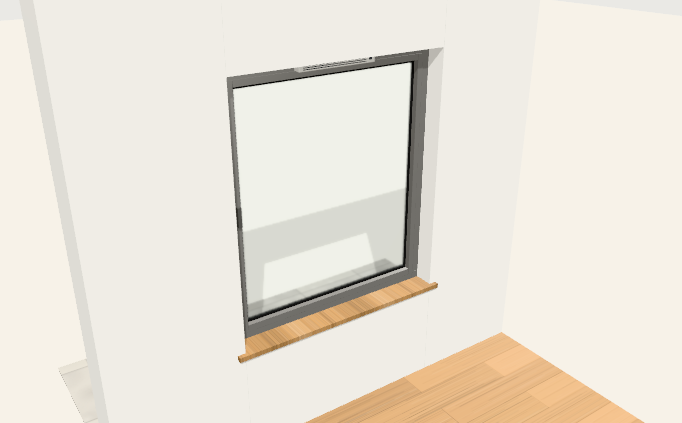
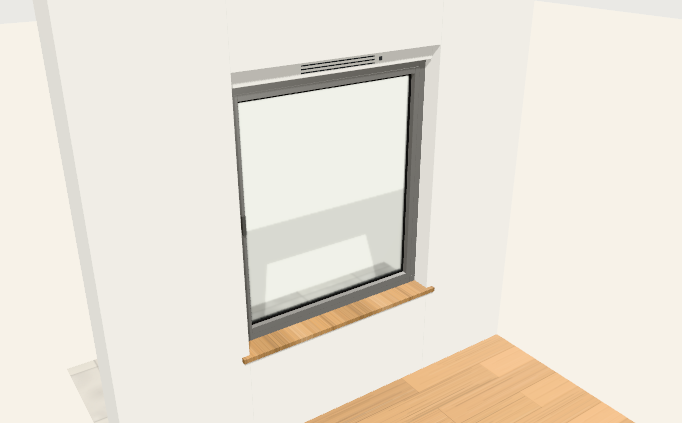
Bouw: raamventilator in een opzetkast, samenvatting zonder ruis (ronde 11b)
De raamventilator zat in een kast van 6 cm tegen het kader en viel in de
3D nauwelijks op. Nu een opzetkast bovenop het kader, binnen, over de
hele breedte (10 cm, of zo hoog als de zonweringskast), met de sleuven
van de ventilator in het midden en buiten een rooster met lamellen.
Zonder zonwering wordt de opening in de muur 10 cm hoger, zoals bij een
zonweringskast; het gevelaanzicht toont die band.

De samenvatting van een raam zet de ventilatie op één regel en noemt
het aantal screens alleen als het er meer dan één zijn, zodat een oud
raam geen extra regels krijgt. Referentiebeeld bouw-ventilator
vernieuwd; skill en beeldtest bijgewerkt.

Claude-Session: https://claude.ai/code/session_01PczewFp9M8BS44vqTSpk6u

diff --git a/packages/core/voorbeelden/raam.ts b/packages/core/voorbeelden/raam.ts
@@ -361,13 +361,13 @@ export const raamdeur: ProductModel = {
     // `rooster: true` blijven exact hetzelfde); `ventilatie_soort` zegt welke: het zelfregelende rooster van vroeger of een raamventilator.
     {
       code: 'rooster', label: 'Ventilatie op het raam', stap: 'opties', type: 'janee', standaard: false, zichtbaarAls: 'type <> "voordeur"',
-      helptekst: 'Luchttoevoer bovenaan het raam: een zelfregelend rooster, of een raamventilator (een toestel met een kast).',
+      helptekst: 'Luchttoevoer bovenaan het raam: een zelfregelend rooster, of een raamventilator (een toestel in een opzetkast bovenop het kader).',
     },
     {
       code: 'ventilatie_soort', label: 'Soort ventilatie op het raam', stap: 'opties', type: 'keuze', standaard: 'rooster', zichtbaarAls: 'rooster en type <> "voordeur"',
       keuzes: [
         { code: 'rooster', label: 'Zelfregelend rooster' },
-        { code: 'ventilator', label: 'Raamventilator (toestel met een kast bovenaan het raam)' },
+        { code: 'ventilator', label: 'Raamventilator (toestel in een opzetkast bovenop het kader)' },
       ],
     },
     { code: 'rc2', label: 'Inbraakwerend beslag (RC2)', stap: 'opties', type: 'janee', standaard: false },
@@ -566,10 +566,13 @@ export const raamdeur: ProductModel = {
     { code: 'zb3', label: 'Breedte screen 3 (mm)', formule: 'als(zon_n < 3; 0; breedte - zg2)' },
     { code: 'zon_bmax', label: 'Breedste screen (mm)', formule: 'max(zb1; zb2; zb3)' },
     { code: 'zon_bmin', label: 'Smalste screen (mm)', formule: 'als(zon_n < 2; zb1; min(zb1; zb2; als(zon_n >= 3; zb3; zb2)))' },
-    // ---- Ventilatie op het raam (ronde 11b): het rooster van vroeger, of een raamventilator met een kast binnen, bovenaan. ----
+    // ---- Ventilatie op het raam (ronde 11b): het rooster van vroeger, of een raamventilator in een opzetkast bovenop het
+    // kader (binnen, over de hele breedte, 10 cm hoog of zo hoog als de zonweringskast), met het rooster van de ventilator
+    // (`vent_b` breed) in het midden. Zonder zonwering wordt de opening in de muur zo 10 cm hoger.
     { code: 'vent_rooster', formule: 'rooster = waar en ventilatie_soort <> "ventilator"' },
     { code: 'vent_toestel', formule: 'rooster = waar en ventilatie_soort = "ventilator"' },
-    { code: 'vent_b', label: 'Breedte kast raamventilator (mm)', formule: 'als(vent_toestel; min(500; breedte - 2 * f - 40); 0)' },
+    { code: 'vent_b', label: 'Breedte ventilator (mm)', formule: 'als(vent_toestel; min(500; breedte - 2 * f - 40); 0)' },
+    { code: 'vent_h', label: 'Hoogte opzetkast raamventilator (mm)', formule: 'als(vent_toestel; max(100; zon_kast); 0)' },
     { code: 'veilig_nodig', formule: 'type_deur of borst < 850' },
     { code: 'toeslag_pct', formule: 'kleur_buiten_toeslag + kleur_binnen_toeslag' },
     { code: 'levertermijn', label: 'Levertermijn (weken)', formule: 'profiel_weken + als(toeslag_pct > 0; 1; 0) + als(zonwering <> "geen"; 1; 0) + als(type = "voordeur"; 2; 0)' },
@@ -611,7 +614,7 @@ export const raamdeur: ProductModel = {
     },
     { code: 'valgevaar', ernst: 'waarschuwing', als: 'verdieping > 0 en (type_deur of borst < 850) en (beweeg > 0 of type_deur)', melding: 'Op de verdieping met een lage borstwering of een deur: valbeveiliging nodig (balustrade of vast glas, te bevestigen).' },
     { code: 'ventilatie', ernst: 'waarschuwing', als: 'ruimte_droog en type <> "voordeur" en niet rooster', melding: 'Droge ruimte zonder ventilatierooster of raamventilator: bij ventilatiesysteem C is luchttoevoer nodig (EPB, te bevestigen).' },
-    { code: 'ventilator_smal', ernst: 'fout', als: 'vent_toestel en breedte - 2 * f < 400', melding: 'Te smal voor een raamventilator (de kast is minstens 36 cm breed): kies een zelfregelend rooster.' },
+    { code: 'ventilator_smal', ernst: 'fout', als: 'vent_toestel en breedte - 2 * f < 400', melding: 'Te smal voor een raamventilator (de ventilator is minstens 36 cm breed): kies een zelfregelend rooster.' },
     { code: 'privacy', ernst: 'waarschuwing', als: 'in(ruimte; "badkamer"; "wc") en glas_m2 > 0 en niet glas_mat', melding: 'Badkamer of wc met helder glas: mat glas voor privacy?' },
     {
       code: 'statiek', ernst: 'fout', als: 'heeft_stijl en niet statiek_ok',
@@ -655,7 +658,7 @@ export const raamdeur: ProductModel = {
     { code: 'hor', omschrijving: 'Inzethor', artikel: '"HOR-INZET"', eenheid: 'm2', aantal: 'n', lengte: 'gb', breedte: 'gh', als: 'vliegenraam = "inzet"' },
     { code: 'plisse', omschrijving: 'Plissé-vliegendeur', artikel: '"HOR-PLISSE"', eenheid: 'stuk', aantal: '1', als: 'vliegenraam = "plisse"' },
     { code: 'rooster', omschrijving: 'Ventilatierooster', artikel: '"ROOSTER"', eenheid: 'lm', aantal: '1', lengte: 'breedte - 2 * f', als: 'vent_rooster' },
-    { code: 'ventilator', omschrijving: 'Raamventilator met kast (binnen, bovenaan het raam)', artikel: '"RAAM-VENTILATOR"', eenheid: 'stuk', aantal: '1', als: 'vent_toestel' },
+    { code: 'ventilator', omschrijving: 'Raamventilator in een opzetkast (binnen, bovenop het kader)', artikel: '"RAAM-VENTILATOR"', eenheid: 'stuk', aantal: '1', als: 'vent_toestel' },
     { code: 'rc2', omschrijving: 'Meerprijs inbraakwerend beslag', artikel: '"RC2-TOESLAG"', eenheid: 'stuk', aantal: 'max(1; beweeg)', als: 'rc2' },
     { code: 'vensterbank', omschrijving: 'Vensterbank binnen', artikel: 'vensterbank_artikel', eenheid: 'lm', aantal: '1', lengte: 'breedte + 100', als: 'niet type_deur en vensterbank <> "geen"' },
     { code: 'dorpel', omschrijving: 'Dorpel buiten', artikel: 'dorpel_artikel', eenheid: 'lm', aantal: '1', lengte: 'breedte + 60', als: 'niet type_deur en dorpel <> "geen"' },
@@ -735,7 +738,7 @@ export const raamPrijslijst: Prijslijst = Object.fromEntries(
       ['HOR-INZET', 'Inzethor', 'm2', 55, 0],
       ['HOR-PLISSE', 'Plissé-vliegendeur', 'stuk', 230, 0],
       ['ROOSTER', 'Ventilatierooster', 'lm', 62, 0],
-      ['RAAM-VENTILATOR', 'Raamventilator met kast', 'stuk', 340, 0],
+      ['RAAM-VENTILATOR', 'Raamventilator met opzetkast', 'stuk', 340, 0],
       ['ZON-MIDDENGELEIDER', 'Middengeleider screens', 'lm', 38, 0],
       ['RC2-TOESLAG', 'Meerprijs RC2-beslag', 'stuk', 85, 0],
       ['VB-STEEN', 'Vensterbank blauwe hardsteen', 'lm', 85, 5],

diff --git a/packages/core/voorbeelden/raamraster.ts b/packages/core/voorbeelden/raamraster.ts
@@ -238,13 +238,6 @@ export function zonweringVan(r: ConfiguratieResultaat): ZonDeel[] {
   return Array.from({ length: n }, (_, i) => ({ nr: i + 1, x0: grenzen[i]!, x1: grenzen[i + 1]! }));
 }
 
-/**
- * Hoogte (mm) van de kast van een raamventilator: zo hoog als het bovenste kaderprofiel (de vleugel eronder kan dan nog
- * open), minstens 5 cm. Een echte opzetkast staat vaak bóven het kader; dat vraagt een hogere opening in de muur en is
- * hier niet getekend.
- */
-export const ventilatorHoogte = (f: number) => Math.max(f, 50);
-
 /** De opening per kolom van de hoofdrij (links → rechts gezien van binnen), voor plattegrond en gevelaanzicht. */
 export function openingenVan(r: ConfiguratieResultaat): string[] {
   return rasterVan(r).vakken.filter((v) => v.rol === 'vak' || v.rol === 'deur' || v.rol === 'deel').map((v) => v.opening);
@@ -271,6 +264,15 @@ export function raamTekening(r: ConfiguratieResultaat, raster: Raster = rasterVa
   const zon = zonweringVan(r);
   if (zon.length > 1) for (const z of zon) vorm(`zonwering.${z.nr}`, z.x0, -kast, z.x1 - z.x0, kast, kbKleur);
   else if (kast > 0) vorm('zonwering', 0, -kast, B, kast, kbKleur);
+  // Raamventilator (ronde 11b): de opzetkast bovenop het kader, binnen (dus vóór een zonweringskast in dit zicht van
+  // binnen), met de sleuven van de ventilator in het midden en de knop ernaast (zie raam3d.ts).
+  const vh = num(a.vent_h);
+  if (a.vent_toestel === true && vh > 0) {
+    const vb = num(a.vent_b), x0 = (B - vb) / 2;
+    vorm('ventilator', 0, -vh, B, vh, '#e8e7e2');
+    for (let i = 0; i < 3; i++) vorm(`ventilator.sleuf.${i + 1}`, x0, -vh * (0.75 - i * 0.2), vb, vh * 0.07, '#55585a');
+    vorm('ventilator.knop', x0 + vb + 30, -vh * 0.62, 24, vh * 0.24, '#55585a');
+  }
   vorm('kader', 0, 0, B, H, ki);
 
   const hoofd = raster.vakken.filter((v) => v.rol === 'vak' || v.rol === 'deur' || v.rol === 'deel');
@@ -309,13 +311,6 @@ export function raamTekening(r: ConfiguratieResultaat, raster: Raster = rasterVa
   for (const v of metRoeden) for (let j = 1; j < v.ruiten[1]; j++) vorm(roedeCode('roede_h', v, j, v.ruiten[1] - 1), v.vlak.x, v.vlak.y + (v.vlak.h * j) / v.ruiten[1] - dikte / 2, v.vlak.b, dikte, ki);
 
   if (a.vent_rooster === true) vorm('rooster', f, f * 0.3, B - 2 * f, f * 0.4, '#77797a');
-  // Raamventilator: de kast binnen tegen de bovenkant van het kader, met de sleuven van de luchtinlaat (zie raam3d.ts).
-  if (a.vent_toestel === true) {
-    const vb = num(a.vent_b), vh = ventilatorHoogte(f), x0 = (B - vb) / 2;
-    vorm('ventilator', x0, 0, vb, vh, '#e8e7e2');
-    for (let i = 0; i < 3; i++) vorm(`ventilator.sleuf.${i + 1}`, x0 + 25, vh * (0.3 + i * 0.2), vb - 90, vh * 0.08, '#55585a');
-    vorm('ventilator.knop', x0 + vb - 45, vh * 0.35, 20, vh * 0.3, '#55585a');
-  }
   if (a.type_deur !== true && typeof k.vensterbank === 'string' && k.vensterbank !== 'geen') vorm('vensterbank', -50, H, B + 100, 30, tekst(a.vb_kleur));
 
   const maatlijnen: MaatlijnResultaat[] = [];
@@ -328,9 +323,11 @@ export function raamTekening(r: ConfiguratieResultaat, raster: Raster = rasterVa
   if (raster.bl > 0) maat('bovenlicht', 0, raster.bl, 0, 0, 160);
   if (raster.oh > 0) maat('onder', 0, H, 0, H - raster.oh, 160);
   // Twee of drie screens: de breedte van elk screen vlak boven de kasten; de maat van de vakken komt er dan boven.
+  // (Boven een opzetkast van een raamventilator die hoger is dan de zonweringskast, komen de maten boven die kast.)
+  const boven = Math.max(kast, vh);
   const metScreens = zon.length > 1;
-  if (metScreens) for (const z of zon) maat(`screen.${z.nr}`, z.x0, 0, z.x1, 0, kast + 120, String(Math.round(z.x1 - z.x0)));
-  const vakAfstand = kast + 120 + (metScreens ? Math.max(260, Math.max(B, H) / 14) : 0);
+  if (metScreens) for (const z of zon) maat(`screen.${z.nr}`, z.x0, 0, z.x1, 0, boven + 120, String(Math.round(z.x1 - z.x0)));
+  const vakAfstand = boven + 120 + (metScreens ? Math.max(260, Math.max(B, H) / 14) : 0);
   if (n >= 2 && raster.soort !== 'schuif') {
     // Gelijke vakken: alleen het eerste; ongelijke vakken: elk vak.
     const ongelijk = hoofd.some((v) => Math.abs(v.b - hoofd[0]!.b) > 0.5);

diff --git a/packages/core/voorbeelden/raam3d.ts b/packages/core/voorbeelden/raam3d.ts
@@ -7,13 +7,13 @@
  */
 import { kaderVan, plaatsBlokken, type Blok, type BlokSoort, type ConfiguratieResultaat, type Scene3D } from '../src/index.js';
 import { GLASKLEUR } from './raam.js';
-import { nieuweIndeling, rasterVan, ventilatorHoogte, zonweringVan, type RasterVak } from './raamraster.js';
+import { nieuweIndeling, rasterVan, zonweringVan, type RasterVak } from './raamraster.js';
 
 const r2 = (x: number) => Math.round(x * 100) / 100;
 
 export interface RaamBlokken {
   blokken: Blok[];
-  /** Breedte en hoogte van het kader (cm), hoogte van de zonweringskast en borstwering (cm). */
+  /** Breedte en hoogte van het kader (cm), hoogte van de zonweringskast (of van de opzetkast van een raamventilator) en borstwering (cm). */
   b: number;
   h: number;
   kast: number;
@@ -249,15 +249,20 @@ export function raamBlokken(r: ConfiguratieResultaat, opties: { binnenDiepte?: n
 
   if (a.vent_rooster === true) blok('rooster', 'donker', f, H - f * 0.65, 7, B - 2 * f, 1.4, 0.4, '#3a3a3a');
 
-  // Raamventilator (ronde 11b): een kast binnen tegen de bovenkant van het kader, met sleuven voor de lucht en een knop; buiten
-  // een smal rooster in het kader. Alles binnen de maat van het kader: de opening in de muur blijft dezelfde.
-  if (a.vent_toestel === true) {
-    const vb = cm(a.vent_b), vh = ventilatorHoogte(num(a.f)) / 10, x0 = (B - vb) / 2;
-    blok('ventilator_kast', 'kunststof', x0, H - vh, 7, vb, vh, 5.6, '#e8e7e2', { afronding: 0.8 });
-    for (let i = 0; i < 3; i++) blok(`ventilator_sleuf${i + 1}`, 'donker', x0 + 2.5, H - vh * (0.3 + i * 0.2) - 0.4, 12.6, vb - 9, 0.4, 0.2, '#3b3e40');
-    blok('ventilator_sleuf_onder', 'donker', x0 + 2.5, H - vh - 0.05, 8, vb - 5, 0.1, 4, '#3b3e40');
-    blok('ventilator_knop', 'donker', x0 + vb - 4.5, H - vh * 0.6, 12.6, 2, vh * 0.3, 0.25, '#55585a');
-    blok('ventilator_buiten', 'donker', x0, H - f * 0.8, -0.5, vb, f * 0.6, 0.5, '#2f3133');
+  // Raamventilator (ronde 11b): een opzetkast bovenop het kader, binnen in de dagopening, over de hele breedte, met de
+  // sleuven van de ventilator in het midden en een knop ernaast. Buiten een rooster over de breedte, tenzij er een
+  // zonweringskast voor zit. De opzetkast is zo hoog als de zonweringskast (minstens 10 cm): zonder zonwering wordt de
+  // opening in de muur 10 cm hoger (`kast` hieronder).
+  const ventH = a.vent_toestel === true ? cm(a.vent_h) : 0;
+  if (ventH > 0) {
+    const vb = cm(a.vent_b), x0 = (B - vb) / 2;
+    blok('ventilator_kast', 'kunststof', 0, H, 1, B, ventH, 12, '#e8e7e2', { afronding: 0.6 });
+    for (let i = 0; i < 3; i++) blok(`ventilator_sleuf${i + 1}`, 'donker', x0, H + ventH * (0.25 + i * 0.2), 13, vb, 0.7, 0.25, '#3b3e40');
+    blok('ventilator_knop', 'donker', x0 + vb + 3, H + ventH * 0.38, 13, 2.4, 2.4, 0.3, '#55585a');
+    if (kast <= 0) {
+      blok('ventilator_buiten', 'donker', 0, H, -1, B, ventH, 2, '#2f3133');
+      for (let i = 0; i < 3; i++) blok(`ventilator_lamel${i + 1}`, 'metaal', 0.5, H + ventH * (0.2 + i * 0.3), -1.5, B - 1, 0.6, 0.5, '#5b5f62');
+    }
   }
 
   // Zonwering: kast boven het raam (buiten), geleiders en het doek of de lamellen half of helemaal neer. Twee of drie screens
@@ -300,7 +305,8 @@ export function raamBlokken(r: ConfiguratieResultaat, opties: { binnenDiepte?: n
   if (k.dorpel === 'alu') blok('dorpel', 'metaal', -3, -4, -(buitenD + 3), B + 6, 4, buitenD + 3, kb);
   if (k.dorpel === 'arduin') blok('dorpel', 'gevel', -3, -5, -(buitenD + 4), B + 6, 5, buitenD + 4, '#50565b');
 
-  return { blokken, b: B, h: H, kast, borst: cm(a.borst) };
+  // De hoogte boven het kader die de opening in de muur nodig heeft: de zonweringskast, of de opzetkast van een raamventilator.
+  return { blokken, b: B, h: H, kast: Math.max(kast, ventH), borst: cm(a.borst) };
 }
 
 /** Een raam of deur in een stukje gevel, met vloer binnen en terras buiten (voorbeeld per positie). */

diff --git a/packages/core/test/raamdetail.test.ts b/packages/core/test/raamdetail.test.ts
@@ -99,7 +99,7 @@ describe('twee of drie screens op één raam', () => {
 });
 
 describe('ventilatie op het raam: rooster of raamventilator', () => {
-  it('een rooster zoals vroeger; een raamventilator is een toestel met een kast, geen rooster', () => {
+  it('een rooster zoals vroeger; een raamventilator is een toestel in een opzetkast, geen rooster', () => {
     const rooster = raam({ rooster: true });
     expect([rooster.afgeleid.vent_rooster, rooster.afgeleid.vent_toestel]).toEqual([true, false]);
     expect(stuk(rooster, 'rooster')).toBeDefined();
@@ -113,22 +113,30 @@ describe('ventilatie op het raam: rooster of raamventilator', () => {
     // De controle "droge ruimte zonder ventilatie" blijft stil: er is luchttoevoer.
     expect(v.meldingen.some((m) => m.code === 'ventilatie')).toBe(false);
     expect(raam({}).meldingen.some((m) => m.code === 'ventilatie')).toBe(true);
-    // Tekening: de kast en haar sleuven, geen rooster.
+    // Tekening: de opzetkast bovenop het kader (10 cm) over de hele breedte, de sleuven van de ventilator; geen rooster.
     expect(v.tekening!.vormen.some((x) => x.code === 'rooster')).toBe(false);
-    expect(v.tekening!.vormen.find((x) => x.code === 'ventilator')).toMatchObject({ breedte: 500, y: 0 });
-    // 3D: de kast binnen tegen de bovenkant van het kader, binnen de maat van het raam (de opening in de muur blijft gelijk).
+    expect(v.tekening!.vormen.find((x) => x.code === 'ventilator')).toMatchObject({ x: 0, y: -100, breedte: 1200, hoogte: 100 });
+    expect(v.tekening!.vormen.filter((x) => x.code.startsWith('ventilator.sleuf')).every((x) => x.breedte === 500 && x.x === 350)).toBe(true);
+    // 3D: de opzetkast binnen, bovenop het kader, over de hele breedte; buiten een rooster. De opening in de muur wordt 10 cm
+    // hoger (zoals bij een zonweringskast).
     const rb = raamBlokken(v);
     const kast = rb.blokken.find((b) => b.code === 'ventilator_kast')!;
     expect(rb.blokken.some((b) => b.code === 'rooster')).toBe(false);
-    expect([kast.x, kast.x + kast.b, kast.y + kast.h]).toEqual([35, 85, 140]);
+    expect([kast.x, kast.b, kast.y, kast.h]).toEqual([0, 120, 140, 10]);
+    expect(rb.blokken.some((b) => b.code === 'ventilator_buiten')).toBe(true);
     for (const b of rb.blokken.filter((x) => x.code.startsWith('ventilator'))) {
       expect(b.x).toBeGreaterThanOrEqual(0);
       expect(b.x + b.b).toBeLessThanOrEqual(rb.b);
-      expect(b.y + b.h).toBeLessThanOrEqual(rb.h + 0.001);
-      expect(b.z).toBeGreaterThanOrEqual(-0.5);
+      expect(b.y).toBeGreaterThanOrEqual(rb.h);
+      expect(b.y + b.h).toBeLessThanOrEqual(rb.h + rb.kast + 0.001);
+      expect(b.z).toBeGreaterThanOrEqual(-1.5);
       expect(b.z + b.d).toBeLessThanOrEqual(13.5);
     }
-    expect([rb.h, rb.kast]).toEqual([140, 0]);
+    expect([rb.h, rb.kast]).toEqual([140, 10]);
+    // Met een screen: de opzetkast is zo hoog als de zonweringskast, de opening blijft die van het screen, geen rooster buiten.
+    const s = raamBlokken(raam({ rooster: true, ventilatie_soort: 'ventilator', zonwering: 'screen' }));
+    expect([s.kast, s.blokken.find((b) => b.code === 'ventilator_kast')!.h, s.blokken.some((b) => b.code === 'ventilator_buiten')]).toEqual([15, 15, false]);
+    expect(raamBlokken(raam({ zonwering: 'screen' })).kast).toBe(15);
   });
 
   it('te smal voor een raamventilator: een fout met de raad een rooster te kiezen', () => {

diff --git a/packages/bouw-web/src/positie-ui.ts b/packages/bouw-web/src/positie-ui.ts
@@ -215,7 +215,7 @@ export function techniek(p: Positie, r: ConfiguratieResultaat): [string, string]
   if (a.heeft_stijl === true) t.push(['Statiek tussenstijl', `${getal(num(a.i_nodig), 1)} / ${getal(num(a.i_aanwezig), 1)} cm⁴ (nodig / aanwezig)`]);
   if (num(a.zon_kast) > 0) t.push(['Zonweringskast', `${getal(num(a.zon_kast))} mm boven het raam`]);
   if (num(a.zon_n) >= 2) t.push(['Screens naast elkaar', `${[a.zb1, a.zb2, a.zb3].slice(0, num(a.zon_n)).map((b) => getal(num(b))).join(' + ')} mm, met ${num(a.zon_n) - 1} middengeleider${num(a.zon_n) > 2 ? 's' : ''}`]);
-  if (a.vent_toestel === true) t.push(['Raamventilator', `kast ${getal(num(a.vent_b))} mm breed, binnen tegen de bovenkant van het kader`]);
+  if (a.vent_toestel === true) t.push(['Raamventilator', `${getal(num(a.vent_b))} mm breed, in een opzetkast van ${getal(num(a.vent_h))} mm hoog bovenop het kader (binnen, over de hele breedte)`]);
   return t;
 }
 
@@ -256,12 +256,14 @@ const BEELDKENMERKEN = new Set(['zon_stand']);
 
 /**
  * De samenvatting van een positie (kenmerk: keuze), zonder wat alleen over de prijs of het beeld gaat. Bij een raam staat
- * de ventilatie op één regel, zoals in het formulier: "Ventilatie op het raam: Zelfregelend rooster" (of Raamventilator, of nee).
+ * de ventilatie op één regel, zoals in het formulier: "Ventilatie op het raam: Zelfregelend rooster" (of Raamventilator, of
+ * nee), en het aantal screens alleen als het er meer dan één zijn.
  */
 export function samenvatting(r: ConfiguratieResultaat): string[] {
   const soort = r.kenmerken.find((k) => k.code === 'ventilatie_soort');
   return r.kenmerken.filter((k) => k.zichtbaar && (PRIJZEN || !PRIJSKENMERKEN.has(k.code)) && !BEELDKENMERKEN.has(k.code)).flatMap((k) => {
-    if (r.product === 'RAAM' && k.code === 'ventilatie_soort') return [];
+    // Eén screen is het gewone geval (zoals vroeger): geen aparte regel; twee of drie wel.
+    if (r.product === 'RAAM' && (k.code === 'ventilatie_soort' || (k.code === 'screens' && k.waarde === 's1'))) return [];
     if (r.product === 'RAAM' && k.code === 'rooster') return [`${k.label}: ${k.waarde === true ? (soort?.zichtbaar ? soort.weergave : 'ja') : 'nee'}`];
     return [`${k.label}: ${k.weergave}`];
   });
@@ -549,7 +551,7 @@ function ventilatieVeld(): HTMLElement {
     groep.append(tegel);
     knoppen.set(w, knop);
   }
-  veld.append(groep, el('p', { class: 'hulp' }, 'Luchttoevoer bovenaan het raam. Een raamventilator is een toestel met een kast binnen, tegen de bovenkant van het kader; het vraagt een elektrische aansluiting.'), fout, herstel);
+  veld.append(groep, el('p', { class: 'hulp' }, 'Luchttoevoer bovenaan het raam. Een raamventilator is een toestel in een opzetkast bovenop het kader (binnen; buiten een rooster); het vraagt een elektrische aansluiting en, zonder zonweringskast, een opening die 10 cm hoger is.'), fout, herstel);
   const update = () => {
     const k = huidig()?.keuzes;
     const nu = k?.rooster !== true ? 'geen' : k.ventilatie_soort === 'ventilator' ? 'ventilator' : 'rooster';

diff --git a/packages/bouw-web/src/gevel-ui.ts b/packages/bouw-web/src/gevel-ui.ts
@@ -79,7 +79,8 @@ export function gevelInfo(o: Opening) {
     label: p.code,
     kleur: String(a.kb ?? '#383e42'),
     vakken: openingenVan(r),
-    kast: (Number(a.zon_kast) || 0) / 10,
+    // De zonweringskast, of de opzetkast van een raamventilator (ronde 11b; van buiten een rooster over de breedte).
+    kast: Math.max(Number(a.zon_kast) || 0, Number(a.vent_h) || 0) / 10,
     paneel: p.keuzes.type === 'voordeur' && p.keuzes.paneel !== 'glasstrook',
     voordeur: p.keuzes.type === 'voordeur',
   };

diff --git a/.claude/skills/bouw-woning/SKILL.md b/.claude/skills/bouw-woning/SKILL.md
@@ -106,7 +106,7 @@ Jonas: een echte offerte voor een uitbouw tonen *"met ook detail"* (hoofdstuk 10
 
 - **Twee of drie screens** (`raam.ts`): kenmerk `screens` (s1, s2, s3; zichtbaar bij `zonwering = "screen"`) en `screen_verdeling` (`gelijk`, of `stijl`: de middengeleider op de stijl tussen twee vakken, bij schuif- en vouwdelen op het midden van de overlapping; kan alleen als `n >= screens_n`). De grenzen staan in de formules: `kg1`…`kg3` (grens tussen kolom i en i + 1, ook bij vier schuifdelen), `kg_midden`, `kg_derde1/2`, `zg1`, `zg2` (afgerond op een mm) en de breedtes `zb1`…`zb3`, `zon_bmax`, `zon_bmin`, `zon_n` (0 zonder zonwering, 1 voor één screen, rolluik of jaloezie). **Eén bron**: `zonweringVan(r)` (`raamraster.ts`) leest `zg1`/`zg2`, en tekening, 3D en stuklijst gebruiken die; een test vergelijkt de grenzen met het raster. Regels per screen: `screen_breed` (> 5 m; de melding verwijst naar *Aantal screens*) en `screen_smal` (< 50 cm). Stuklijst: `zonwering` (screen 1, lengte `zb1`; bij één stuk de hele breedte, zoals vroeger), `zonwering2`, `zonwering3`, `middengeleider` (lm, `zon_n − 1` × de hoogte, artikel `ZON-MIDDENGELEIDER`), `motor` × `zon_n`; montage + 1 uur per extra screen. Tekening: de kasten `zonwering.1`… naast elkaar en de maat van elk screen (`screen.1`…) erboven; de maat van de vakken schuift dan op. 3D (`raam3d.ts`): per screen `zonwering_kast<n>` (met een naad van 3 mm), `doek<n>`, `onderlat<n>`, buitenste geleiders zoals vroeger en `geleider_m<n>` (6 cm) op elke grens. `zon_stand` (*Zonwering in de 3D*: half neer = 62 % zoals altijd, of helemaal neer) geldt voor elke zonwering en staat niet in een samenvatting.
 - **Snel geldig**: `pasIndelingToe` zet bij `screen_breed` een screen bij (tot drie, gelijk verdeeld) en bij `screen_smal` een screen af; pas als drie screens te breed zijn, vervalt de zonwering. In het keuzepaneel van de 3D (`ding-ui.ts`) geeft *Screen* op een partij breder dan 5 m meteen twee (of drie) screens. Het paneel kreeg geen nieuwe knoppen: aantal en verdeling staan in de configurator (stap *Zonwering en opties*).
-- **Ventilatie op het raam**: `rooster` (janee) blijft de vlag *er staat ventilatie op het raam* (label nu *Ventilatie op het raam*), zodat alles wat `rooster: true` schrijft (de plattegrond voor een droge ruimte, de maatlijst, de voorbeeldwoning, de snelstart) en de controle *droge ruimte zonder ventilatie* ongewijzigd werken. Nieuw: `ventilatie_soort` (`rooster` standaard, `ventilator`; zichtbaar als `rooster` aan staat). Afgeleid `vent_rooster` en `vent_toestel` (altijd waar of onwaar); **lees die, niet `rooster`**, in tekening, 3D en stuklijst (het rooster van vroeger hangt nu aan `vent_rooster`). In de configurator staan de twee als één keuze *Ventilatie op het raam: Geen, Zelfregelend rooster, Raamventilator* (`ventilatieVeld` in `positie-ui.ts`, onder de code `rooster`, labels `pk-ventilatie-geen|rooster|ventilator`). Raamventilator: stuklijstregel `ventilator` (artikel `RAAM-VENTILATOR`), regel `ventilator_smal` (minder dan 40 cm tussen het kader), +½ uur montage, *Elektrische aansluiting raamventilator* bij niet inbegrepen; in tekening en 3D een kast van `vent_b` (50 cm of smaller) × `ventilatorHoogte(f)` (de hoogte van het bovenste kaderprofiel, minstens 5 cm) **binnen tegen de bovenkant van het kader** (`ventilator_kast`, sleuven, knop) en buiten een smal rooster in het kader (`ventilator_buiten`). Alles binnen de maat van het kader: de opening in de muur verandert niet. Een echte opzetkast staat vaak bóven het kader (dat vraagt een hogere opening): niet getekend.
+- **Ventilatie op het raam**: `rooster` (janee) blijft de vlag *er staat ventilatie op het raam* (label nu *Ventilatie op het raam*), zodat alles wat `rooster: true` schrijft (de plattegrond voor een droge ruimte, de maatlijst, de voorbeeldwoning, de snelstart) en de controle *droge ruimte zonder ventilatie* ongewijzigd werken. Nieuw: `ventilatie_soort` (`rooster` standaard, `ventilator`; zichtbaar als `rooster` aan staat). Afgeleid `vent_rooster` en `vent_toestel` (altijd waar of onwaar); **lees die, niet `rooster`**, in tekening, 3D en stuklijst (het rooster van vroeger hangt nu aan `vent_rooster`). In de configurator staan de twee als één keuze *Ventilatie op het raam: Geen, Zelfregelend rooster, Raamventilator* (`ventilatieVeld` in `positie-ui.ts`, onder de code `rooster`, labels `pk-ventilatie-geen|rooster|ventilator`). Raamventilator: stuklijstregel `ventilator` (artikel `RAAM-VENTILATOR`), regel `ventilator_smal` (minder dan 40 cm tussen het kader), +½ uur montage, *Elektrische aansluiting raamventilator* bij niet inbegrepen; in tekening en 3D een **opzetkast bovenop het kader**, binnen in de dagopening, over de hele breedte (`ventilator_kast`, 12 cm diep), `vent_h` hoog (10 cm, of zo hoog als de zonweringskast), met de sleuven van de ventilator (`vent_b`: 50 cm of smaller) in het midden en een knop ernaast; buiten een rooster over de breedte (`ventilator_buiten` met drie lamellen `ventilator_lamel<n>`), behalve als er een zonweringskast voor zit. `raamBlokken().kast` is daarom de grootste van zonweringskast en opzetkast: zonder zonwering wordt de opening in de muur in 3D 10 cm hoger (zoals bij een zonweringskast hoort die hoogte bij de lateizone; de controle *Te hoog voor de muur* telt ze niet mee, ook de zonweringskast niet). Het gevelaanzicht toont die band boven het raam (`gevelInfo` in `gevel-ui.ts`). Eerst stond de kast binnen tegen het kader (6 cm hoog): te klein om in de 3D op te vallen.
 - **Plat dakraam** (`dak.ts`, catalogus `inrichting.ts`): `DakLichtType.vorm` kent nu `'dakraam'` (vlak glas op een opstand die naar voren afloopt, `DAKRAAM_HELLING` 3°, `dakraamStijging(l)`), en een type kan `zonwering` hebben (label, prijs, kost, artikel: wat erop past). Catalogus: `dakraam_080`, `dakraam_100`, `dakraam_120`, `dakraam_100_150` (groep *Platte dakramen*, verschijnt vanzelf in het palet van het gereedschap *Lichtkoepel of lichtstraat*). `DakLicht` kreeg twee optionele velden: `zonwering?: 'screen'` en `zonweringStand?: 'half' | 'dicht'`; ze tellen alleen als het type zonwering kent. 3D (`daklichtBlokken` → `dakraamBlokken`, alleen prisma's langs x): opstand als wig, dagkanten tot onder het glas, een glazen plaat met een donkere rand van 7,5 cm die 1,5 cm over de opstand steekt; met een screen een kast langs de hoge kant, twee geleiders en het doek (`stof`) 1,2 cm boven het glas tot de helft of tot de voorkant, met een onderlat. Plattegrond (`plattegrondsvg.ts`, uit `cat`): het kruis plus de rand van het glas; met een screen een donkere streep langs de hoge kant en lijnen over het deel dat dicht is (`data-zonwering="screen"`). Gevelaanzicht: een lage plaat in plaats van een bol, met de kast erop. Offerte (`planNaarRegels`, groep Dak): `daklicht_zon:<type>` per type met het aantal. `ontwerpKenmerken` noemt *3 platte dakramen (alle met screen)*. `verdeelDaklichten` (de teller) geeft nieuwe dakramen dezelfde zonwering als die op dat dakstuk.
 - **Kaart Dak** (`dak-ui.ts`): de teller heet *Dakramen* als hij dakramen zet; daaronder (alleen als er daklichten liggen) *Soort* (`#dak-daklicht-soort`: elke soort uit de catalogus; vervangt de daklichten op het grootste platte dak door evenveel van de nieuwe soort) en, als er een dakraam met zonwering ligt, *Buitenzonwering op de dakramen*: Geen / Screen voor allemaal (`[data-dakraam-zon]`), *In de 3D* half of helemaal dicht (`[data-dakraam-stand]`) en *Per dakraam* (`details[data-dakraam-per]`, `[data-dakraam-zon-<n>]`). De regel *Buitenzonwering* in het overzicht van de kaart.
 - **Niet gedaan** (bewust of buiten deze ronde): het paneel van een gekozen daklicht in de plattegrond (`plattegrond-ui.ts`, ronde 11) heet ook voor een dakraam nog *Lichtkoepel* en heeft geen schakelaar voor de zonwering (die staat in de kaart Dak); het gevelaanzicht toont één kast boven een raam met meer screens; geen zonwering op koepels of lichtstraten; geen screens per vak op een rolluik of jaloezie.

diff --git a/beeldtest/LEESMIJ.md b/beeldtest/LEESMIJ.md
@@ -50,7 +50,7 @@ Voorbeeld (proef van 5/11, de vierkante voet onder Pebble tijdelijk teruggezet):
 | `bouw-zon` | lichtinval (15/11): 21 juni om 13 u, van boven in het gelijkvloers gekeken. De verdieping en het dak zijn verborgen maar werpen schaduw; de zonnevlekken van het schuifraam, de terrasdeur en de lichtkoepel liggen op de vloer. Genomen ná `bouw-dak` (de koepel komt daar vandaan) |
 | `bouw-stolp`, `bouw-deur-zijlicht`, `bouw-hefschuif`, `bouw-vouwwand`, `bouw-steellook` | de raamtypes van 15/11: een raam van de voorbeeldwoning krijgt met één tegel een andere indeling (stolp, deur met zij- en bovenlicht, hef-schuif 3-delig, vouwwand 4-delig, steellook) |
 | `bouw-garagepoort` | sectionale garagepoort met cassettes en vensters (eigen model, 15/11) |
-| `bouw-twee-screens`, `bouw-ventilator`, `bouw-platte-dakramen` | detail van ramen en dakramen (ronde 11b, 16/11), elk op een eigen pagina met een vers project (de voorbeeldwoning), dus onafhankelijk van de raamtypes ervoor: het schuifraam van 4 m als hef-schuifdeur van 4,00 × 2,35 m met twee screens naast elkaar, half neer, van buiten (twee kasten, een middengeleider); het raam in de zijgevel van de leefruimte met een raamventilator, van binnen en dichterbij (de kast tegen de bovenkant van het kader); en drie platte dakramen van 120 × 120 met een screen half dicht op het platte dak, via de kaart Dak (teller, soort, *Screen*), de woning schuin. Samen te vernieuwen met `--alleen bouw-twee-screens,bouw-ventilator,bouw-platte-dakramen` |
+| `bouw-twee-screens`, `bouw-ventilator`, `bouw-platte-dakramen` | detail van ramen en dakramen (ronde 11b, 16/11), elk op een eigen pagina met een vers project (de voorbeeldwoning), dus onafhankelijk van de raamtypes ervoor: het schuifraam van 4 m als hef-schuifdeur van 4,00 × 2,35 m met twee screens naast elkaar, half neer, van buiten (twee kasten, een middengeleider); het raam in de zijgevel van de leefruimte met een raamventilator, van binnen en dichterbij (de opzetkast bovenop het kader, met de sleuven van de ventilator); en drie platte dakramen van 120 × 120 met een screen half dicht op het platte dak, via de kaart Dak (teller, soort, *Screen*), de woning schuin. Samen te vernieuwen met `--alleen bouw-twee-screens,bouw-ventilator,bouw-platte-dakramen` |
 | `bouw-schuin-plan`, `bouw-schuin-3d`, `bouw-schuin-binnen` | schuine muren (ronde 2c, 16/11): de voorbeeldwoning met een afgeschuinde leefruimte (vijfhoek, schuifraam in de schuine muur, terras schuin ervoor) en een aanbouw met een schuine zijmuur (raam erin). De plattegrond (verstek, lengte langs de schuine muur), de 3D van rechtsvoor (hoek tegen de woning, dakrand) en met lage muren van linksvoor. Op een eigen pagina met een vers project: het plan gaat via het bewaarde project (`SCHUIN_PLAN` in het script), dus deze drie hangen niet af van de beelden ervoor |
 | `bouw-techniek`, `bouw-techniek-plan` | techniek voor de installateur (ronde 10, 16/11): de voorbeeldwoning uitgerust (`core/voorbeelden/techniekwoning.ts`) in de uitgezette weergave (vloeren, lage wanden, de omtrek op plafondhoogte; leidingen in hun kleur, kleine toestellen groter in de kleur van hun vak), schuin en een stap verder weg, in de **losse kijker** (`dist/bouw-kijker.html`, het pakket als bericht); en de tekening van het gelijkvloers met alle tekens en leidingen. De gegevens komen uit de motor via `tsx core/voorbeelden/techniekbeeld.ts` (dat bleef zo toen de configurator de techniek ging tonen). Hangen niet af van de beelden ervoor |
 | `bouw-techniek-scherm-plan`, `bouw-techniek-scherm-3d` | techniek op het scherm van de configurator (ronde 10b, 16/11), op een eigen pagina: de knop *Techniek* en *Voorbeeld openen: woning met techniek* in het palet; de tekening met de techniek aan (elektriciteit op de voorgrond, de andere vakken en de meubels lichter) en de 3D *In de woning* met lage muren, het gelijkvloers schuin. Samen te vernieuwen met `--alleen bouw-techniek-scherm` |
